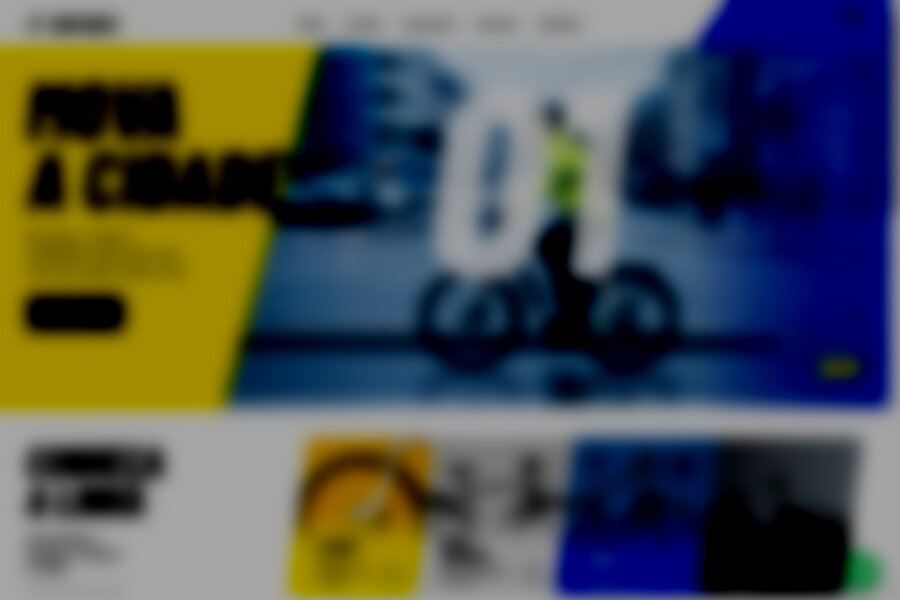
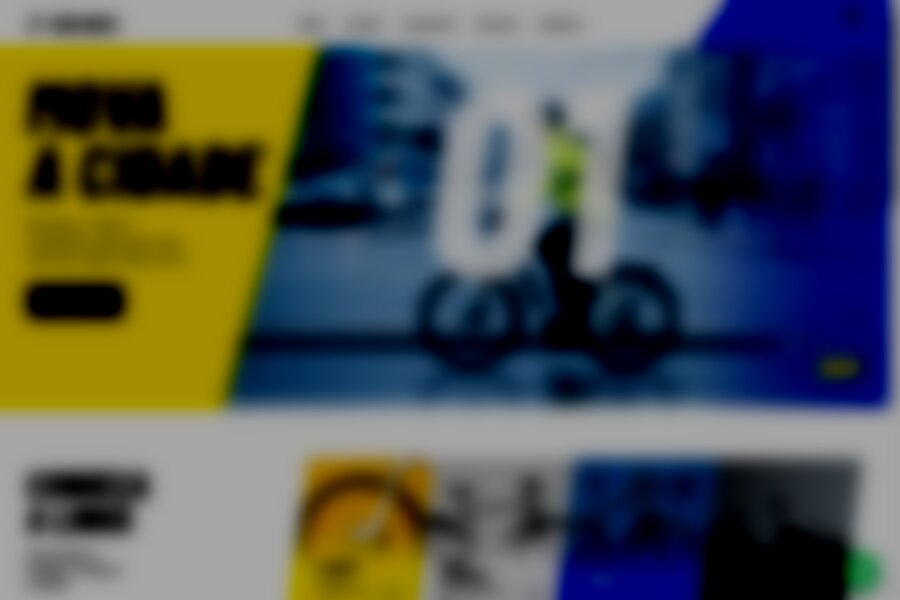
giro-bikes: ajustes da revisao (espaco, escala de titulos, mobile)

diff --git a/src/components/models/BikeMove.tsx b/src/components/models/BikeMove.tsx
@@ -79,7 +79,7 @@ export function BikeMove({ client }: { client?: { name?: string; whatsapp?: stri
         .gb .hero:before{content:"";position:absolute;inset:0;z-index:1;background:${Y};clip-path:polygon(0 0,36% 0,25% 100%,0 100%)}
         .gb .hero:after{content:"";position:absolute;z-index:1;right:0;top:0;bottom:0;width:22%;background:linear-gradient(90deg,rgba(27,47,214,0),rgba(27,47,214,.85));}
         .gb .hc{position:relative;z-index:3;padding:34px 0 40px;width:min(94%,1200px);margin:0 auto;min-height:480px}
-        .gb .hc h1{font-size:clamp(64px,9vw,118px);max-width:5.2em;margin:0 0 22px;line-height:.86}
+        .gb .hc h1{font-size:clamp(60px,8.2vw,104px);max-width:5.2em;margin:0 0 22px;line-height:.86}
         .gb .hc p{font-size:15px;line-height:1.5;max-width:23ch;margin:0 0 22px;font-weight:500}
         .gb .btn{display:inline-flex;align-items:center;gap:10px;min-height:46px;padding:0 22px;border-radius:2px;font-size:13px;font-weight:700;text-decoration:none;cursor:pointer;border:0;background:${K};color:#fff}
         .gb .btn.y{background:${Y};color:${K}}
@@ -89,8 +89,8 @@ export function BikeMove({ client }: { client?: { name?: string; whatsapp?: stri
         .gb .nc{position:absolute;z-index:3;right:3%;bottom:7%;text-align:right;color:#fff;font-size:12px;font-weight:700;letter-spacing:.1em;text-transform:uppercase}
         .gb .nc b{display:block;font-family:'Barlow Condensed',sans-serif;font-style:italic;font-weight:800;font-size:34px;color:${Y};letter-spacing:0;margin-top:2px}
         .gb .nc i{display:block;color:${Y};margin:0 0 12px auto;width:max-content;font-style:normal;font-size:22px}
-        .gb .rg{display:grid;grid-template-columns:320px 1fr;gap:30px;align-items:center;padding:40px 0}
-        .gb .rg h2{font-size:clamp(40px,5vw,56px)}
+        .gb .rg{display:grid;grid-template-columns:320px 1fr;gap:30px;align-items:center;padding:68px 0}
+        .gb h2{text-wrap:balance}.gb .rg h2,.gb .plan h2,.gb .gg h2,.gb .svc h2{font-size:clamp(38px,4.2vw,50px);line-height:.9}.gb .svc h2{font-size:clamp(34px,3.2vw,42px)}
         .gb .rg p{font-size:14px;font-weight:600;text-transform:uppercase;margin:20px 0 0;line-height:1.35;max-width:14ch}
         .gb .rg .ln{height:1px;background:${K};width:130px;margin-top:20px;position:relative}
         .gb .rc{display:grid;grid-template-columns:repeat(4,1fr);gap:0}
@@ -123,17 +123,17 @@ export function BikeMove({ client }: { client?: { name?: string; whatsapp?: stri
         .gb .ct .h{border:0;font-weight:700;font-size:12px;line-height:1.3}
         .gb .ct .hy{background:${Y};font-weight:800}
         .gb .ct b{font-weight:700}
-        .gb .plan{position:relative;display:grid;grid-template-columns:.9fr 1fr;min-height:320px;background:#0f1013;overflow:hidden;color:#fff}
-        .gb .plan .mp{position:relative;padding:36px 3% 36px max(3%,calc((100vw - 1200px)/2));z-index:2}
-        .gb .plan h2{font-size:clamp(44px,5.4vw,64px);line-height:.88}
+        .gb .plan{position:relative;display:grid;grid-template-columns:.9fr 1fr;min-height:360px;background:#0f1013;overflow:hidden;color:#fff}
+        .gb .plan .mp{position:relative;padding:56px 3% 36px max(3%,calc((100vw - 1200px)/2));z-index:2}
+        
         .gb .plan p{font-size:12px;line-height:1.5;max-width:24ch;color:#cfd1d6;margin:14px 0 18px}
         .gb .plan svg.map{position:absolute;inset:0;width:62%;height:100%;opacity:.95}
         .gb .plan .ph{position:absolute;right:0;top:0;bottom:0;width:60%;object-fit:cover;object-position:60% 50%;clip-path:polygon(14% 0,100% 0,100% 100%,0 100%)}
         .gb .plan .rts{position:absolute;right:4%;top:50%;transform:translateY(-50%);z-index:3;display:grid;gap:10px}
         .gb .plan .rt{display:flex;gap:12px;align-items:center;background:#fff;color:${K};padding:10px 14px;min-width:160px;font-size:12px;font-weight:700}
         .gb .plan .rt small{display:block;font-weight:500;color:#555;font-size:11px}
-        .gb .gear{display:grid;grid-template-columns:1.35fr 1fr;gap:20px;padding:36px 0}
-        .gb .gg h2{font-size:clamp(34px,4vw,46px);margin-bottom:6px}
+        .gb .gear{display:grid;grid-template-columns:1.35fr 1fr;gap:20px;padding:68px 0}
+        .gb .gg h2{margin-bottom:6px}
         .gb .gl{display:grid;grid-template-columns:repeat(4,1fr);gap:12px;margin-top:20px}
         .gb .gc{background:#f1f1f4;padding:12px;display:flex;flex-direction:column}
         .gb .gc img{width:100%;aspect-ratio:1;object-fit:contain;mix-blend-mode:multiply}
@@ -141,7 +141,7 @@ export function BikeMove({ client }: { client?: { name?: string; whatsapp?: stri
         .gb .gc div{display:flex;justify-content:space-between;align-items:center;margin-top:6px;font-size:14px;font-weight:700}
         .gb .gc button{width:44px;height:44px;border-radius:50%;background:${Y};border:0;display:grid;place-items:center;cursor:pointer;color:${K}}
         .gb .svc{background:${B};color:#fff;padding:26px 28px;display:grid;grid-template-columns:1fr 1.1fr;gap:20px;position:relative}
-        .gb .svc h2{font-size:34px}
+        
         .gb .svc p{font-size:12px;line-height:1.5;margin:10px 0 16px;color:#dfe3ff;max-width:22ch}
         .gb .sl{display:grid;gap:0}
         .gb .sl a{display:flex;align-items:center;gap:12px;min-height:48px;border-bottom:1px solid rgba(255,255,255,.2);color:#fff;font-size:12px;text-decoration:none;cursor:pointer}
@@ -160,7 +160,7 @@ export function BikeMove({ client }: { client?: { name?: string; whatsapp?: stri
           .gb .top:after{width:40%}.gb .nl{display:none}.gb .burger{display:grid}.gb .nav{justify-content:space-between}.gb .ibs{margin-left:auto}
           .gb .mob{display:grid;background:#fff;padding:6px 5%;border-bottom:1px solid #ddd}.gb .mob a{min-height:48px;display:flex;align-items:center;border-bottom:1px solid #eee;font-size:15px;font-weight:600;color:${K};cursor:pointer}
           .gb .hero{min-height:0;display:flex;flex-direction:column}.gb .hero>img{position:relative;width:100%;height:260px;order:2}.gb .hero:before{clip-path:polygon(0 0,100% 0,100% 100%,0 100%);height:auto;bottom:260px}.gb .hero:after{display:none}
-          .gb .hc{min-height:0;padding:28px 0 30px;order:1}.gb .hc h1{font-size:68px}.gb .big,.gb .vl{display:none}.gb .nc{bottom:10px}
+          .gb .hc{min-height:0;padding:28px 0 30px;order:1}.gb .hc h1{font-size:68px}.gb .big,.gb .vl{display:none}.gb .nc{bottom:10px}.gb .hero>img+.nc{}.gb .rk .t{padding:30px 14px 10px 14px;flex-direction:column;align-items:flex-start}.gb .rk .t i{position:absolute;right:10px;top:10px}.gb .rk .t{padding:30px 12px 12px 14px}.gb .nc{left:0;right:0;bottom:0;padding:40px 5% 12px;background:linear-gradient(0deg,rgba(10,12,40,.85),rgba(10,12,40,0))}.gb .nc i{display:none}.gb .wa{right:10px;bottom:10px}
           .gb .rg{grid-template-columns:1fr;gap:20px}.gb .rc{grid-template-columns:1fr 1fr;gap:8px}.gb .rk{margin:0;clip-path:none;height:170px}
           .gb .pr .in{grid-template-columns:1fr}.gb .pl{grid-template-columns:1fr;padding:20px 0}.gb .pl .n2{font-size:150px}.gb .pl img{margin-top:70px}.gb .cm{border-left:0}
           .gb .plan{grid-template-columns:1fr}.gb .plan .mp{padding:30px 5%}.gb .plan svg.map{position:relative;width:100%;height:200px}.gb .plan .ph{position:relative;width:100%;height:240px;clip-path:none}.gb .plan .rts{position:relative;right:auto;top:auto;transform:none;padding:14px 5%;background:#0f1013}
